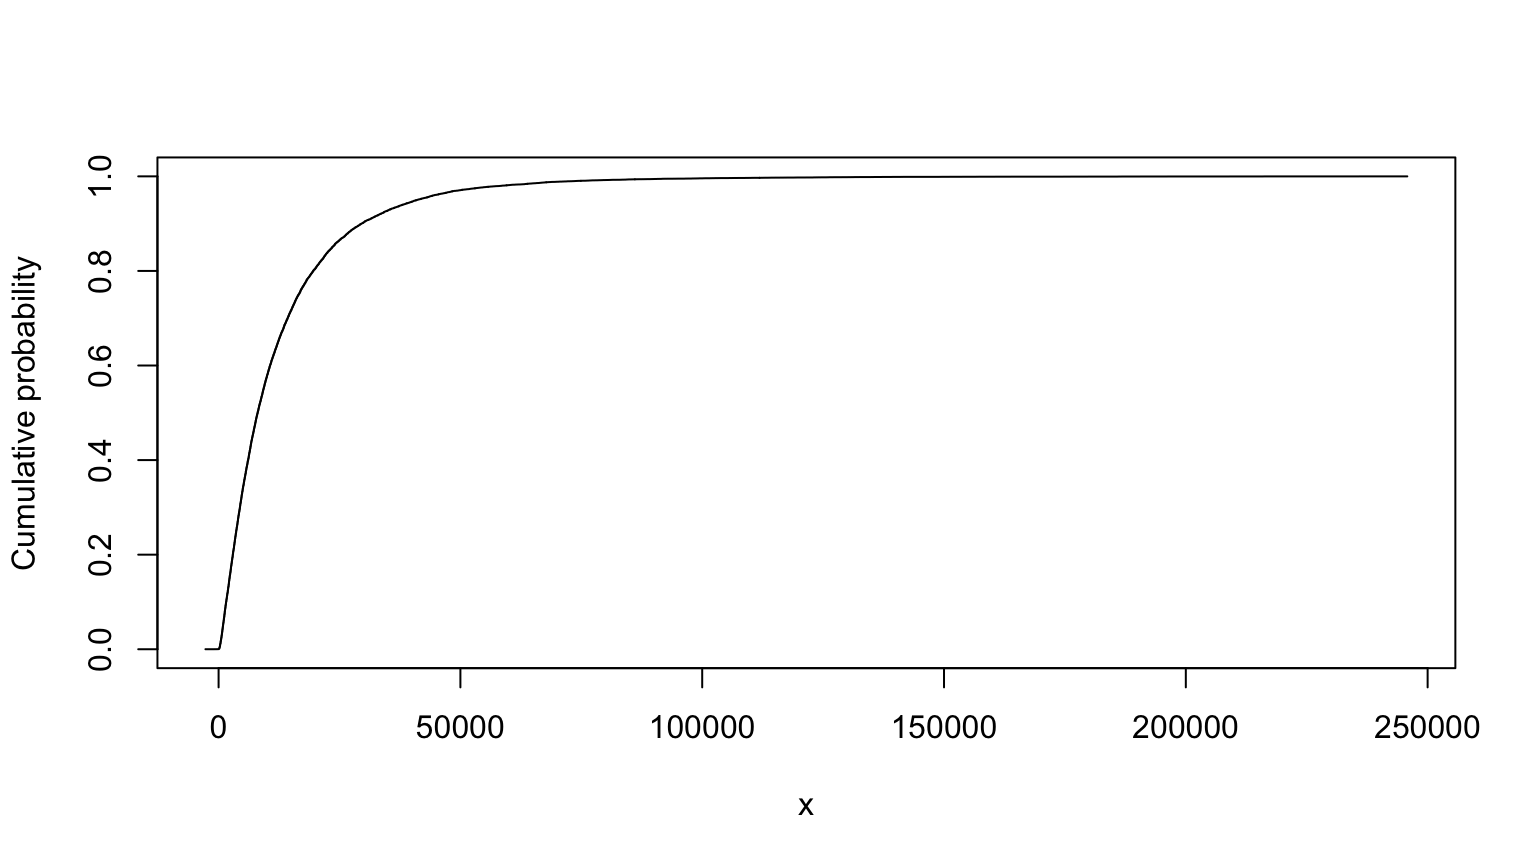
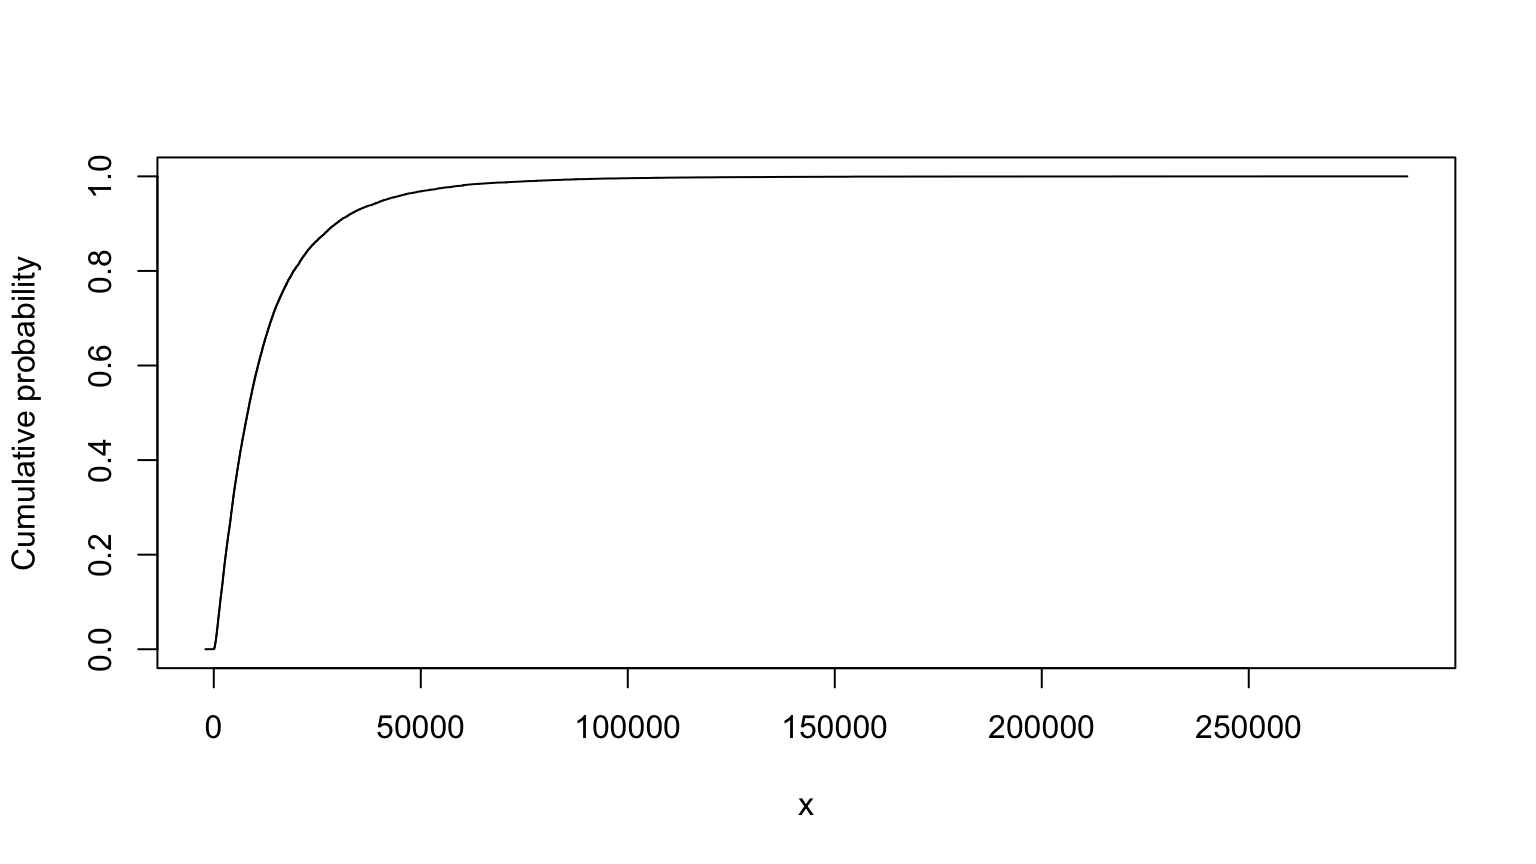
build_analysis_site() for release 1.1.10

diff --git a/docs/workshop.html b/docs/workshop.html
@@ -428,25 +428,25 @@ T &lt;- (n + BD * foc * Koc) * L / (K * i) # all variables assumed independent
 summary(T)</code></pre>
 <pre><code>## 
 ## Monte Carlo distribution summary
-##   Mean: 13002.7
-##   Variance: 244322506
-##   Std Deviation: 15630.82
-##   Width of interquartile range: 12903.62
-##   Width of overall range: 248499.3
+##   Mean: 12997.34
+##   Variance: 245562705
+##   Std Deviation: 15670.44
+##   Width of interquartile range: 12671.44
+##   Width of overall range: 290291
 ##   Order statistics
-##      Left (min) value: -2704.723
-##      1st percentile: 339.7999
-##      5th percentile: 917.3857
-##      25th percentile: 3656.931
-##      Median (50th%ile): 8074.584
-##      75th percentile: 16560.55
-##      95th percentile: 41013.81
-##      99th percentile: 73542.39
-##      Right (max) value: 245794.6
+##      Left (min) value: -1998.04
+##      1st percentile: 334.1538
+##      5th percentile: 922.7019
+##      25th percentile: 3661.012
+##      Median (50th%ile): 8190.403
+##      75th percentile: 16332.45
+##      95th percentile: 41300.1
+##      99th percentile: 76044.18
+##      Right (max) value: 288292.9
 ##   Replications: 20000</code></pre>
 <pre class="r"><code>T</code></pre>
 <p><img src="workshop_files/figure-html/T-1.png" alt="" width="768" /></p>
-<pre><code>## MC (min=-2704.72263261681, median=8074.58432145297, mean=13002.7010252214, max=245794.566885252)</code></pre>
+<pre><code>## MC (min=-1998.03984622157, median=8190.40256084255, mean=12997.3425462783, max=288292.945011184)</code></pre>
 <pre class="r"><code># nolint end</code></pre>
 <p>Truncated version, from slide 40:</p>
 <pre class="r"><code># nolint start
@@ -466,25 +466,25 @@ T &lt;- (n + BD * foc * Koc) * L / (K * i)
 summary(T)</code></pre>
 <pre><code>## 
 ## Monte Carlo distribution summary
-##   Mean: 12310.99
-##   Variance: 165772232
-##   Std Deviation: 12875.26
-##   Width of interquartile range: 12372.5
-##   Width of overall range: 155052.4
+##   Mean: 12201.9
+##   Variance: 158977246
+##   Std Deviation: 12608.62
+##   Width of interquartile range: 12421.83
+##   Width of overall range: 124554.6
 ##   Order statistics
-##      Left (min) value: 88.97864
-##      1st percentile: 363.7695
-##      5th percentile: 975.0523
-##      25th percentile: 3786.811
-##      Median (50th%ile): 8149.349
-##      75th percentile: 16159.31
-##      95th percentile: 38397.29
-##      99th percentile: 62172.76
-##      Right (max) value: 155141.4
+##      Left (min) value: 71.51513
+##      1st percentile: 371.9655
+##      5th percentile: 975.3018
+##      25th percentile: 3739.865
+##      Median (50th%ile): 8150.365
+##      75th percentile: 16161.7
+##      95th percentile: 37388.7
+##      99th percentile: 61137.1
+##      Right (max) value: 124626.1
 ##   Replications: 20000</code></pre>
 <pre class="r"><code>T</code></pre>
 <p><img src="workshop_files/figure-html/T_truncated-1.png" alt="" width="768" /></p>
-<pre><code>## MC (min=88.9786356350089, median=8149.34858261832, mean=12310.9925365316, max=155141.393202536)</code></pre>
+<pre><code>## MC (min=71.5151281216223, median=8150.36501599668, mean=12201.8982512883, max=124626.090476143)</code></pre>
 <pre class="r"><code># nolint end</code></pre>
 <p>Maximum entropy version, from slide 70:</p>
 <p>T and Tind are pretty similar. In this case, the maximum entropy
@@ -503,25 +503,25 @@ Tind &lt;- (n + BD * foc * Koc) * L / (K * i)
 summary(Tind)</code></pre>
 <pre><code>## 
 ## Monte Carlo distribution summary
-##   Mean: 13946.26
-##   Variance: 227343449
-##   Std Deviation: 15077.91
-##   Width of interquartile range: 15344.3
-##   Width of overall range: 174821.1
+##   Mean: 13901.17
+##   Variance: 226289930
+##   Std Deviation: 15042.94
+##   Width of interquartile range: 15248.09
+##   Width of overall range: 159077
 ##   Order statistics
-##      Left (min) value: 73.67615
-##      1st percentile: 359.7491
-##      5th percentile: 948.6509
-##      25th percentile: 3650.394
-##      Median (50th%ile): 8547.837
-##      75th percentile: 18994.7
-##      95th percentile: 44479.93
-##      99th percentile: 70121.14
-##      Right (max) value: 174894.8
+##      Left (min) value: 66.24372
+##      1st percentile: 349.1684
+##      5th percentile: 963.5895
+##      25th percentile: 3719.996
+##      Median (50th%ile): 8519.153
+##      75th percentile: 18968.08
+##      95th percentile: 44330.62
+##      99th percentile: 68998.38
+##      Right (max) value: 159143.2
 ##   Replications: 20000</code></pre>
 <pre class="r"><code>Tind</code></pre>
 <p><img src="workshop_files/figure-html/Tind-1.png" alt="" width="768" /></p>
-<pre><code>## MC (min=73.6761537099542, median=8547.83738006586, mean=13946.2636193636, max=174894.779782488)</code></pre>
+<pre><code>## MC (min=66.2437190879527, median=8519.15262839095, mean=13901.1658862103, max=159143.237573794)</code></pre>
 <pre class="r"><code># nolint end</code></pre>
 </div>
 <div id="probability-bounds-analysis" class="section level2">

diff --git a/docs/news/index.html b/docs/news/index.html
@@ -7,7 +7,7 @@
 
     <a class="navbar-brand me-2" href="../index.html">workshop7</a>
 
-    <small class="nav-text text-muted me-auto" data-bs-toggle="tooltip" data-bs-placement="bottom" title="">1.1.9</small>
+    <small class="nav-text text-muted me-auto" data-bs-toggle="tooltip" data-bs-placement="bottom" title="">1.1.10</small>
 
 
     <button class="navbar-toggler" type="button" data-bs-toggle="collapse" data-bs-target="#navbar" aria-controls="navbar" aria-expanded="false" aria-label="Toggle navigation">
@@ -37,6 +37,10 @@
       <small>Source: <a href="https://github.com/jabenninghoff/workshop7/blob/HEAD/NEWS.md" class="external-link"><code>NEWS.md</code></a></small>
     </div>
 
+    <div class="section level2">
+<h2 class="pkg-version" data-toc-text="1.1.10" id="workshop7-1110">workshop7 1.1.10<a class="anchor" aria-label="anchor" href="#workshop7-1110"></a></h2>
+<ul><li>Removed non-functional lint badge from README</li>
+</ul></div>
     <div class="section level2">
 <h2 class="pkg-version" data-toc-text="1.1.9" id="workshop7-119">workshop7 1.1.9<a class="anchor" aria-label="anchor" href="#workshop7-119"></a></h2>
 <ul><li>Initial upkeep using <code><a href="https://jabenninghoff.github.io/rdev/reference/use_upkeep_issue.html" class="external-link">rdev::use_upkeep_issue()</a></code>

diff --git a/docs/authors.html b/docs/authors.html
@@ -7,7 +7,7 @@
 
     <a class="navbar-brand me-2" href="index.html">workshop7</a>
 
-    <small class="nav-text text-muted me-auto" data-bs-toggle="tooltip" data-bs-placement="bottom" title="">1.1.9</small>
+    <small class="nav-text text-muted me-auto" data-bs-toggle="tooltip" data-bs-placement="bottom" title="">1.1.10</small>
 
 
     <button class="navbar-toggler" type="button" data-bs-toggle="collapse" data-bs-target="#navbar" aria-controls="navbar" aria-expanded="false" aria-label="Toggle navigation">
@@ -51,13 +51,13 @@
 
       <p>Benninghoff J (2026).
 <em>workshop7: SRA 2021 Workshop 7</em>.
-R package version 1.1.9, <a href="https://jabenninghoff.github.io/workshop7/">https://jabenninghoff.github.io/workshop7/</a>.
+R package version 1.1.10, <a href="https://jabenninghoff.github.io/workshop7/">https://jabenninghoff.github.io/workshop7/</a>.
 </p>
       <pre>@Manual{,
   title = {workshop7: SRA 2021 Workshop 7},
   author = {John Benninghoff},
   year = {2026},
-  note = {R package version 1.1.9},
+  note = {R package version 1.1.10},
   url = {https://jabenninghoff.github.io/workshop7/},
 }</pre>
     </div>

diff --git a/docs/index.html b/docs/index.html
@@ -23,7 +23,7 @@
 
     <a class="navbar-brand me-2" href="index.html">workshop7</a>
 
-    <small class="nav-text text-muted me-auto" data-bs-toggle="tooltip" data-bs-placement="bottom" title="">1.1.9</small>
+    <small class="nav-text text-muted me-auto" data-bs-toggle="tooltip" data-bs-placement="bottom" title="">1.1.10</small>
 
 
     <button class="navbar-toggler" type="button" data-bs-toggle="collapse" data-bs-target="#navbar" aria-controls="navbar" aria-expanded="false" aria-label="Toggle navigation">
@@ -133,7 +133,6 @@
 <h2 data-toc-skip>Dev status</h2>
 <ul class="list-unstyled">
 <li><a href="https://github.com/jabenninghoff/workshop7/actions" class="external-link"><img src="https://github.com/jabenninghoff/workshop7/workflows/R-CMD-check/badge.svg" alt="R-CMD-check"></a></li>
-<li><a href="https://github.com/jabenninghoff/workshop7/actions" class="external-link"><img src="https://github.com/jabenninghoff/workshop7/workflows/lint/badge.svg" alt="lint"></a></li>
 </ul>
 </div>
 

diff --git a/docs/404.html b/docs/404.html
@@ -21,7 +21,7 @@
 
     <a class="navbar-brand me-2" href="https://jabenninghoff.github.io/workshop7/index.html">workshop7</a>
 
-    <small class="nav-text text-muted me-auto" data-bs-toggle="tooltip" data-bs-placement="bottom" title="">1.1.9</small>
+    <small class="nav-text text-muted me-auto" data-bs-toggle="tooltip" data-bs-placement="bottom" title="">1.1.10</small>
 
 
     <button class="navbar-toggler" type="button" data-bs-toggle="collapse" data-bs-target="#navbar" aria-controls="navbar" aria-expanded="false" aria-label="Toggle navigation">

diff --git a/docs/reference/index.html b/docs/reference/index.html
@@ -7,7 +7,7 @@
 
     <a class="navbar-brand me-2" href="../index.html">workshop7</a>
 
-    <small class="nav-text text-muted me-auto" data-bs-toggle="tooltip" data-bs-placement="bottom" title="">1.1.9</small>
+    <small class="nav-text text-muted me-auto" data-bs-toggle="tooltip" data-bs-placement="bottom" title="">1.1.10</small>
 
 
     <button class="navbar-toggler" type="button" data-bs-toggle="collapse" data-bs-target="#navbar" aria-controls="navbar" aria-expanded="false" aria-label="Toggle navigation">

diff --git a/docs/reference/workshop7-package.html b/docs/reference/workshop7-package.html
@@ -7,7 +7,7 @@
 
     <a class="navbar-brand me-2" href="../index.html">workshop7</a>
 
-    <small class="nav-text text-muted me-auto" data-bs-toggle="tooltip" data-bs-placement="bottom" title="">1.1.9</small>
+    <small class="nav-text text-muted me-auto" data-bs-toggle="tooltip" data-bs-placement="bottom" title="">1.1.10</small>
 
 
     <button class="navbar-toggler" type="button" data-bs-toggle="collapse" data-bs-target="#navbar" aria-controls="navbar" aria-expanded="false" aria-label="Toggle navigation">

diff --git a/docs/LICENSE-text.html b/docs/LICENSE-text.html
@@ -7,7 +7,7 @@
 
     <a class="navbar-brand me-2" href="index.html">workshop7</a>
 
-    <small class="nav-text text-muted me-auto" data-bs-toggle="tooltip" data-bs-placement="bottom" title="">1.1.9</small>
+    <small class="nav-text text-muted me-auto" data-bs-toggle="tooltip" data-bs-placement="bottom" title="">1.1.10</small>
 
 
     <button class="navbar-toggler" type="button" data-bs-toggle="collapse" data-bs-target="#navbar" aria-controls="navbar" aria-expanded="false" aria-label="Toggle navigation">

diff --git a/docs/LICENSE.html b/docs/LICENSE.html
@@ -7,7 +7,7 @@
 
     <a class="navbar-brand me-2" href="index.html">workshop7</a>
 
-    <small class="nav-text text-muted me-auto" data-bs-toggle="tooltip" data-bs-placement="bottom" title="">1.1.9</small>
+    <small class="nav-text text-muted me-auto" data-bs-toggle="tooltip" data-bs-placement="bottom" title="">1.1.10</small>
 
 
     <button class="navbar-toggler" type="button" data-bs-toggle="collapse" data-bs-target="#navbar" aria-controls="navbar" aria-expanded="false" aria-label="Toggle navigation">

diff --git a/docs/TODO.html b/docs/TODO.html
@@ -7,7 +7,7 @@
 
     <a class="navbar-brand me-2" href="index.html">workshop7</a>
 
-    <small class="nav-text text-muted me-auto" data-bs-toggle="tooltip" data-bs-placement="bottom" title="">1.1.9</small>
+    <small class="nav-text text-muted me-auto" data-bs-toggle="tooltip" data-bs-placement="bottom" title="">1.1.10</small>
 
 
     <button class="navbar-toggler" type="button" data-bs-toggle="collapse" data-bs-target="#navbar" aria-controls="navbar" aria-expanded="false" aria-label="Toggle navigation">
